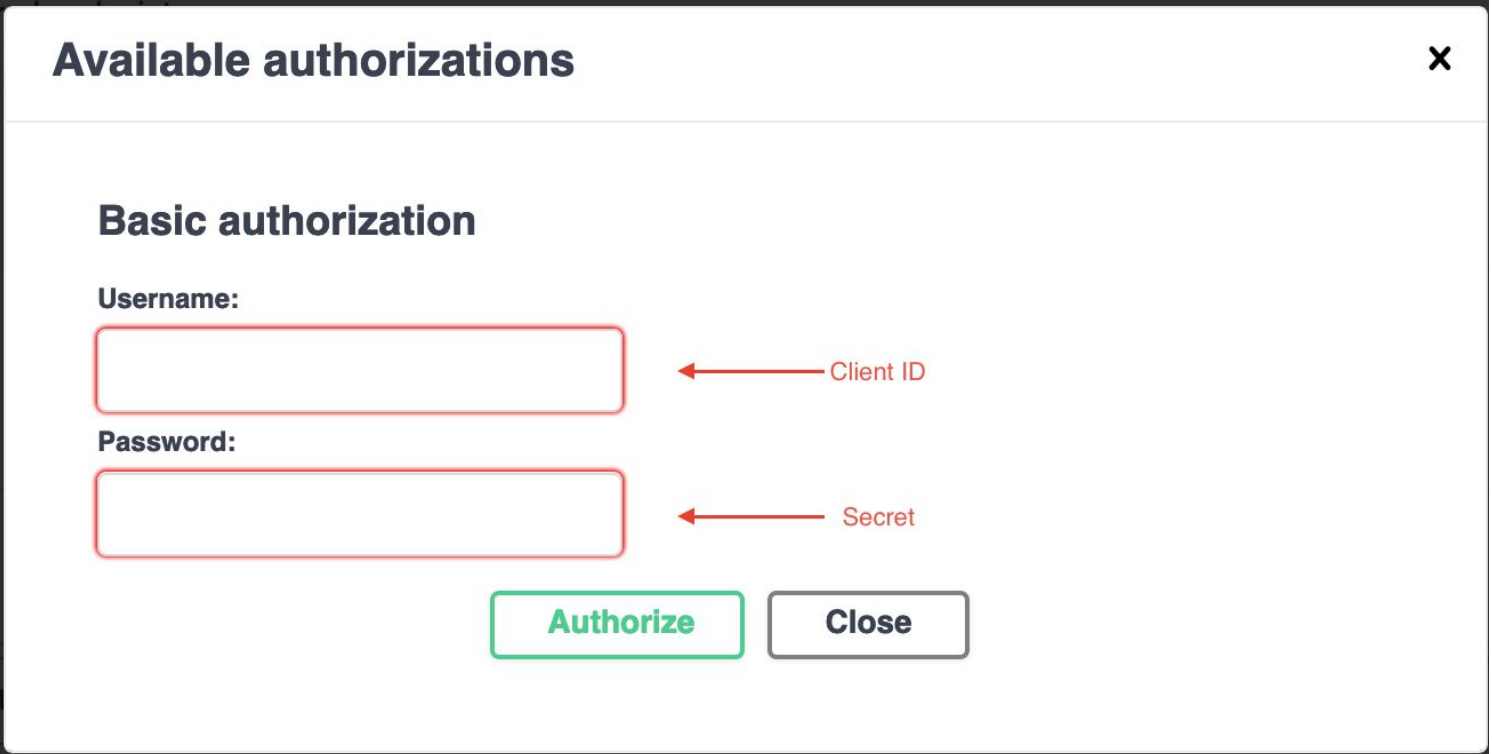
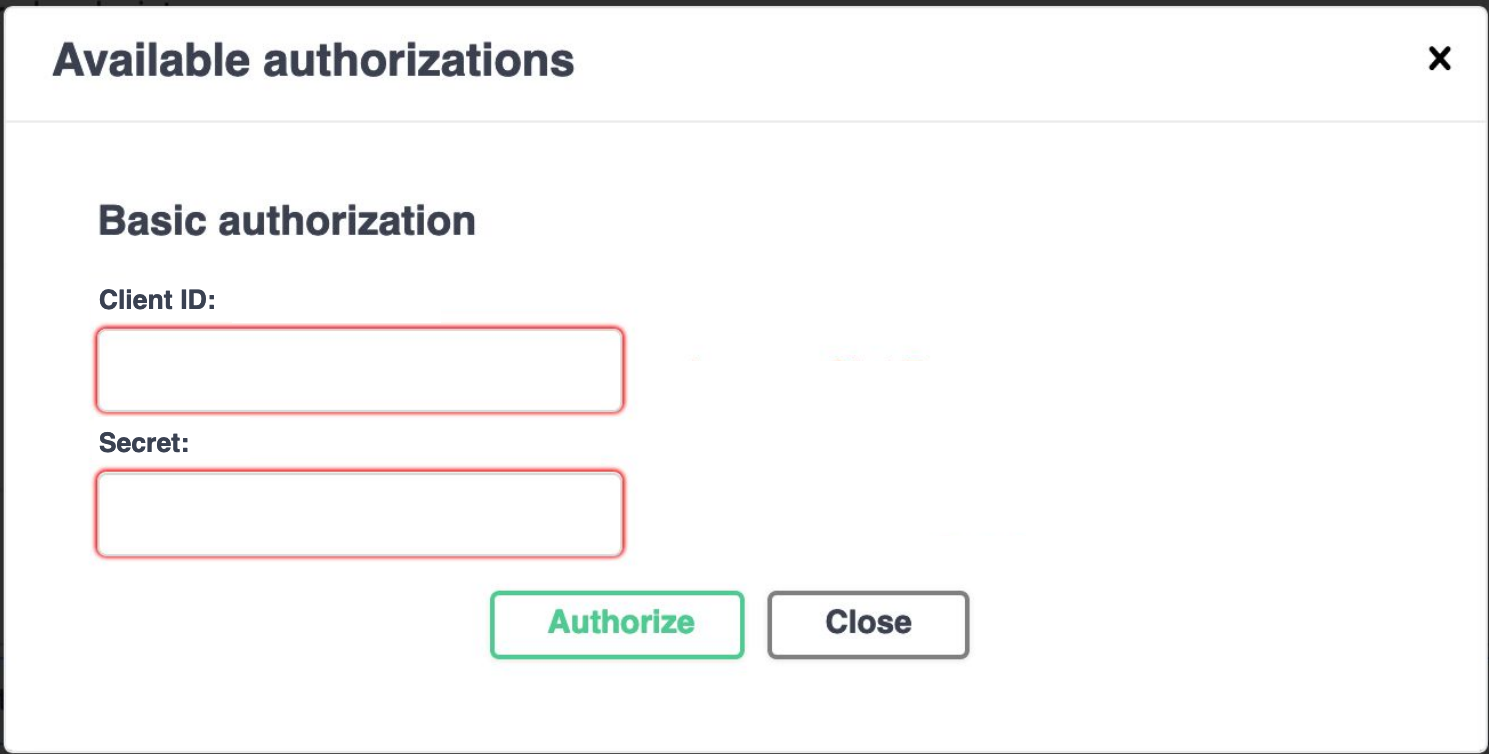
Swagger prompts for client id/secret instead of username/password

diff --git a/production/user_guide.md b/production/user_guide.md
@@ -49,7 +49,7 @@ Once the page is open, your first step will be getting an **access token**.  You
 
 <img class="ug-img" src="/assets/img/nav_swag_01.png" alt="Swagger: Auth category"/>
 
-When you enrolled in BCDA, you received **credentials**, which included a **client ID** and **secret**.  Here you'll enter the client ID as the username, and the secret as the password.
+When you enrolled in BCDA, you received **credentials**, which included a **client ID** and **secret**.  Here you'll enter them into Swagger.
 
 * Click the "Authorize" button when you've entered your credentials, then "Close"
 

diff --git a/sandbox/user_guide.md b/sandbox/user_guide.md
@@ -133,7 +133,7 @@ Client Secret:
 {% include copy_snippet.md code=client_secret %}
 </div>
 
-Back in Swagger, you’ll enter the client ID as the username, and the secret as the password.
+Back in Swagger, you’ll enter the client ID and secret.
 
 * Click the "Authorize" button when you've entered your credentials, then "Close"
 
